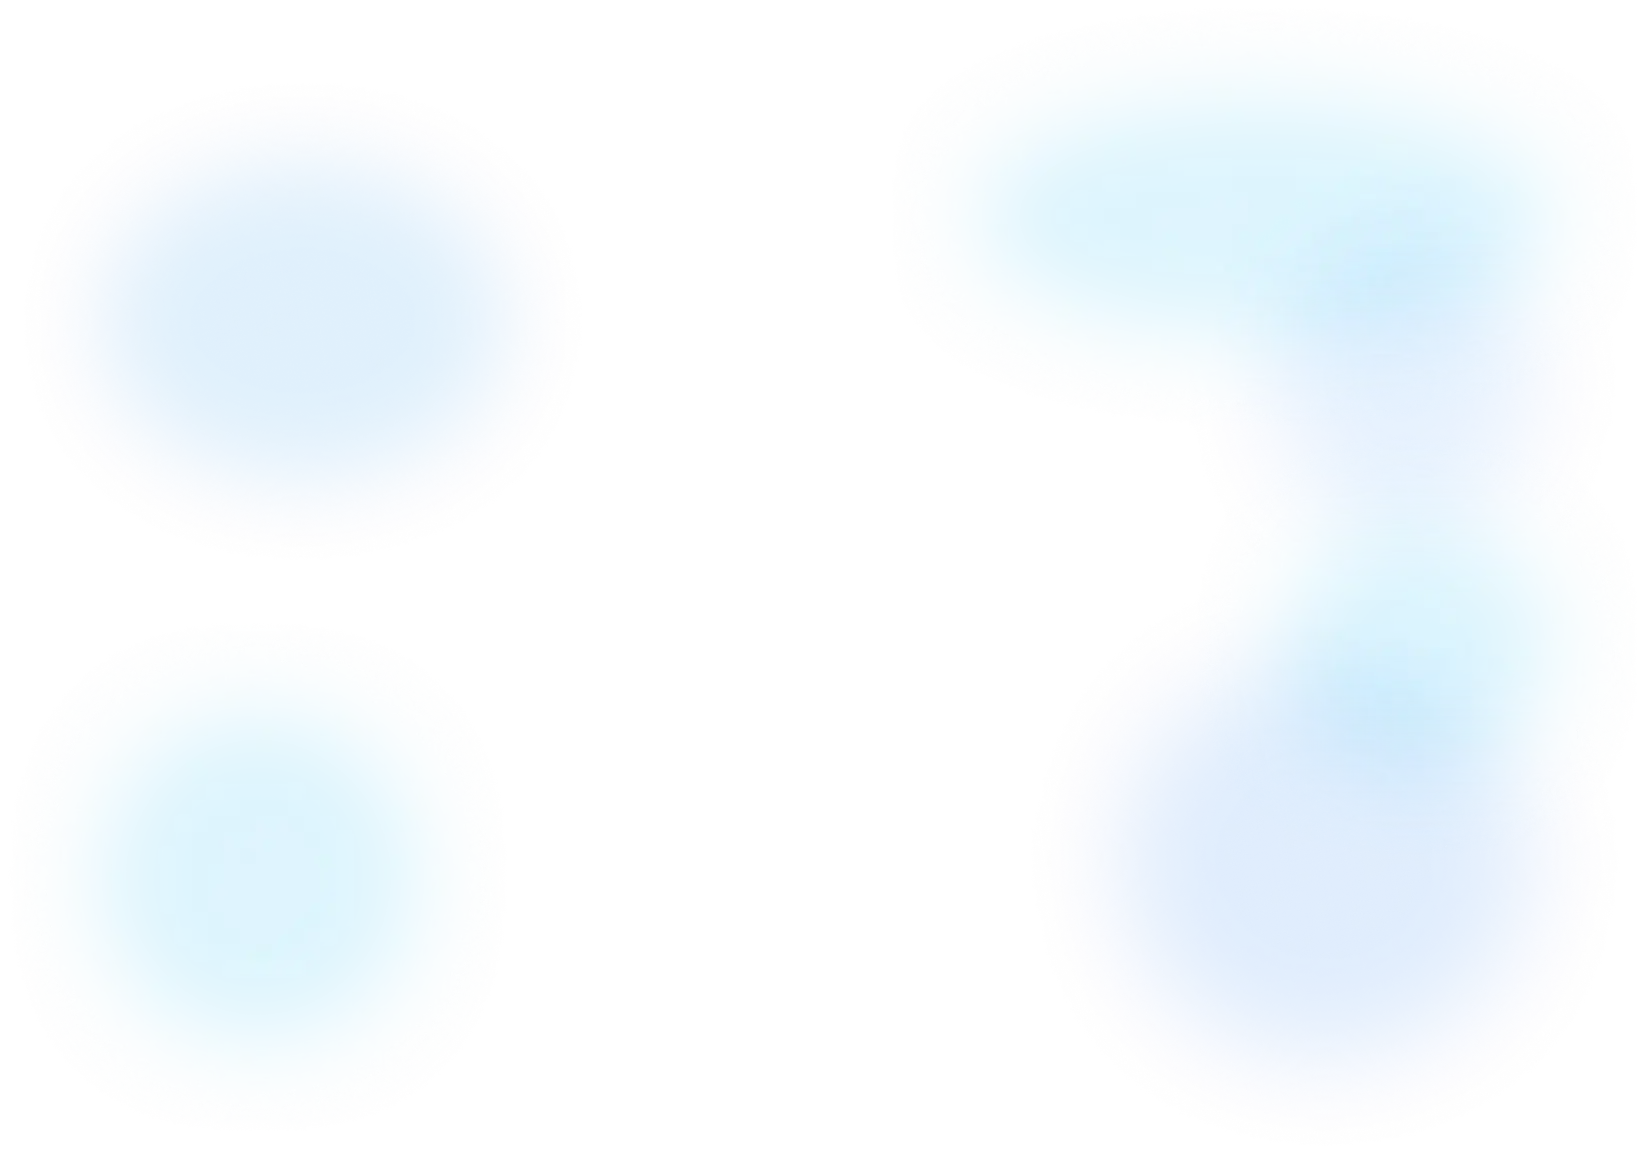
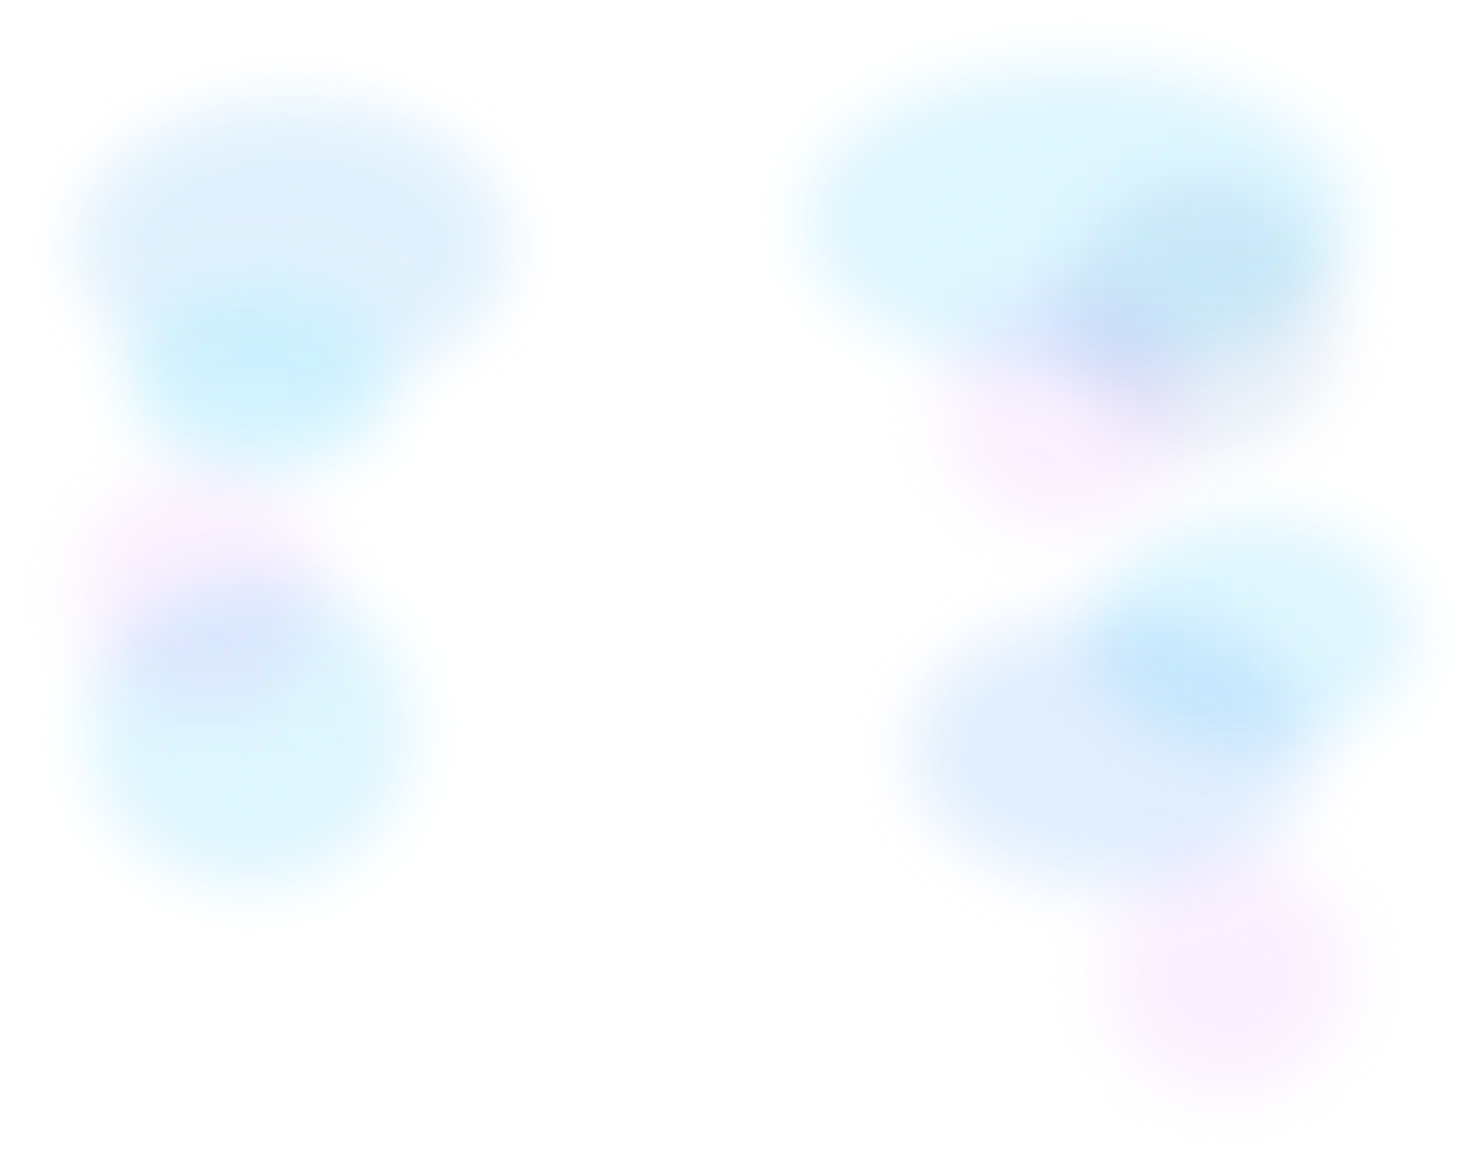
ポートフォリオ更新

diff --git a/js/meshGradient.js b/js/meshGradient.js
@@ -1,0 +1,132 @@
+// js/meshGradient.js
+// メッシュグラデーション共通関数
+
+function hexToRgb(h) {
+  return [parseInt(h.slice(1,3),16), parseInt(h.slice(3,5),16), parseInt(h.slice(5,7),16)];
+}
+
+function initMeshHero(config) {
+  const {
+    wrapperId = 'heroWrap',
+    bgCanvasId = 'bgCanvas',
+    shimCanvasId = 'shimCanvas',
+    orbsLayerId = 'orbsLayer',
+    colors,
+    speed = { mesh: 0.7, shim: 2.2, orb: 2.8 },
+    shimmerOpacity = 0.31,
+  } = config;
+
+  const wrap   = document.getElementById(wrapperId);
+  const bgCv   = document.getElementById(bgCanvasId);
+  const bgCtx  = bgCv.getContext('2d');
+  const shCv   = document.getElementById(shimCanvasId);
+  const shCtx  = shCv.getContext('2d');
+  const orbsEl = document.getElementById(orbsLayerId);
+
+  // カラーポイント生成
+  const pts = colors.points.map(c => ({
+    c,
+    x: Math.random(), y: Math.random(),
+    vx: (Math.random()-.5)*.003,
+    vy: (Math.random()-.5)*.003,
+  }));
+
+  // orbs生成
+  const orbs = colors.orbs.map(color => {
+    const el = document.createElement('div');
+    el.className = 'orb';
+    const size = 180 + Math.random() * 160;
+    el.style.cssText = `width:${size}px;height:${size}px;background:${color};position:absolute;border-radius:50%;filter:blur(60px);mix-blend-mode:screen;`;
+    el.style.left = (Math.random() * 100) + '%';
+    el.style.top  = (Math.random() * 100) + '%';
+    orbsEl.appendChild(el);
+    return { el, x: Math.random(), y: Math.random(), vx:(Math.random()-.5)*0.0045, vy:(Math.random()-.5)*0.0045 };
+  });
+
+  function resize() {
+    const dpr = devicePixelRatio;
+    bgCv.width = window.innerWidth * dpr;  bgCv.height = window.innerHeight * dpr;
+    shCv.width = window.innerWidth * dpr;  shCv.height = window.innerHeight * dpr;
+  }
+
+  function drawMesh() {
+    const W = bgCv.width / devicePixelRatio;
+    const H = bgCv.height / devicePixelRatio;
+    const sw = Math.ceil(W / 3), sh = Math.ceil(H / 3);
+    const id = bgCtx.createImageData(sw, sh);
+    const d = id.data;
+    for (let py = 0; py < sh; py++) {
+      for (let px = 0; px < sw; px++) {
+        const nx = px / sw, ny = py / sh;
+        let tr=0, tg=0, tb=0, tw=0;
+        for (const p of pts) {
+          const dx = nx - p.x, dy = ny - p.y;
+          const w2 = 1 / (dx*dx + dy*dy + 0.016);
+          const [r,g,b] = hexToRgb(p.c);
+          tr+=r*w2; tg+=g*w2; tb+=b*w2; tw+=w2;
+        }
+        const idx = (py * sw + px) * 4;
+        d[idx]   = tr / tw;
+        d[idx+1] = tg / tw;
+        d[idx+2] = tb / tw;
+        d[idx+3] = 255;
+      }
+    }
+    const tmp = document.createElement('canvas');
+    tmp.width = sw; tmp.height = sh;
+    tmp.getContext('2d').putImageData(id, 0, 0);
+    bgCtx.save();
+    bgCtx.scale(devicePixelRatio, devicePixelRatio);
+    bgCtx.imageSmoothingEnabled = true;
+    bgCtx.imageSmoothingQuality = 'high';
+    bgCtx.drawImage(tmp, 0, 0, W, H);
+    bgCtx.restore();
+  }
+
+  let shimT = 0;
+  function drawShimmer() {
+    const W = shCv.width / devicePixelRatio;
+    const H = shCv.height / devicePixelRatio;
+    shCtx.save();
+    shCtx.scale(devicePixelRatio, devicePixelRatio);
+    shCtx.clearRect(0, 0, W, H);
+    for (let i = 0; i < 5; i++) {
+      const x = W * (0.08 + i * 0.2 + Math.sin(shimT * 0.55 + i) * 0.16);
+      const y = H * (0.15 + Math.cos(shimT * 0.42 + i * 1.2) * 0.36);
+      const r = 52 + Math.sin(shimT + i) * 18;
+      const g = shCtx.createRadialGradient(x, y, 0, x, y, r * 4.2);
+      g.addColorStop(0,   'rgba(255,255,255,0.62)');
+      g.addColorStop(0.3, 'rgba(255,255,255,0.20)');
+      g.addColorStop(1,   'rgba(255,255,255,0)');
+      shCtx.fillStyle = g;
+      shCtx.beginPath();
+      shCtx.ellipse(x, y, r * 2.5, r, shimT * 0.22 + i, 0, Math.PI * 2);
+      shCtx.fill();
+    }
+    shCtx.restore();
+    shCv.style.opacity = shimmerOpacity;
+  }
+
+  function animate() {
+    shimT += 0.006 * speed.shim;
+    for (const p of pts) {
+      p.x += p.vx * speed.mesh; p.y += p.vy * speed.mesh;
+      if (p.x < 0 || p.x > 1) p.vx *= -1;
+      if (p.y < 0 || p.y > 1) p.vy *= -1;
+    }
+    for (const o of orbs) {
+      o.x += o.vx * speed.orb; o.y += o.vy * speed.orb;
+      if (o.x < -0.1 || o.x > 1.1) o.vx *= -1;
+      if (o.y < -0.1 || o.y > 1.1) o.vy *= -1;
+      o.el.style.left = (o.x * 100) + '%';
+      o.el.style.top  = (o.y * 100) + '%';
+    }
+    drawMesh();
+    drawShimmer();
+    requestAnimationFrame(animate);
+  }
+
+  resize();
+  animate();
+  window.addEventListener('resize', resize);
+}

diff --git a/js/memberColors.js b/js/memberColors.js
@@ -1,0 +1,102 @@
+// js/memberColors.js
+// 全メンバーの色設定
+
+const COLORS = {
+
+    // チーム — 青 × エメラルド
+    team: {
+        points: [
+            '#d6edf8', '#acddcd', '#9acbec', '#7ab8e8',
+            '#5ba3d4', '#3d88cc', '#aacdf2', '#c8e4f5',
+            '#a0dcc8', '#7dceb3',
+        ],
+        orbs: [
+            'rgba(140,200,240,0.52)',
+            'rgba(90,170,220,0.45)',
+            'rgba(190,225,248,0.55)',
+            'rgba(136,208,184,0.20)',
+        ],
+        bg: '#bddaf2',
+    },
+
+    // コウ — グリーンメイン × 青
+    kou: {
+        points: [
+            '#a8ddc0', '#88ccaa', '#68bc94', '#48ac7e',
+            '#28a068', '#559966', '#b8e8cc', '#cceedd',
+            '#7ab8e8', '#5ba3d4',  // ← 青2点
+        ],
+        orbs: [
+            'rgba(120,210,160,0.52)',
+            'rgba(72,172,126,0.45)',
+            'rgba(184,232,204,0.55)',
+            'rgba(90,163,212,0.22)',  // ← 青のorb
+        ],
+        bg: '#a0d8b8',
+    },
+
+    // マイ — ピンク × 青
+    mai: {
+        points: [
+            '#fde8dc', '#c8d4f3', '#fbc4a8', '#f9b090',
+            '#f7c5c0', '#f9d4cc', '#fde0d8', '#fce8e0',
+            '#b8c8f0', '#90aee8',
+        ],
+        orbs: [
+            'rgba(251,182,144,0.45)',
+            'rgba(249,176,160,0.42)',
+            'rgba(253,232,220,0.55)',
+            'rgba(144,174,232,0.25)',
+        ],
+        bg: '#fde8dc',
+    },
+
+    // さくら — オレンジ × ピンク
+    sakura: {
+        points: [
+            '#fde0c0', '#fdd0a0', '#fcc088', '#fba878',
+            '#f9c0b8', '#f8b0a8', '#fdd8c8', '#fce8d8',
+            '#f9a0b0', '#f890a0',
+        ],
+        orbs: [
+            'rgba(252,180,120,0.48)',
+            'rgba(250,160,140,0.44)',
+            'rgba(253,210,180,0.52)',
+            'rgba(249,160,176,0.28)',
+        ],
+        bg: '#fdd5b0',
+    },
+
+    // あや — 紫 × 水色
+    aya: {
+        points: [
+            '#cce8f5', '#c8b8e8', '#88c8e8', '#66b8e0',
+            '#44a8d8', '#2298d0', '#aad0e8', '#c8e0f0',
+            '#c8b8e8', '#ae98e0',  // ← ラベンダーに変更
+        ],
+        orbs: [
+            'rgba(136,200,232,0.52)',
+            'rgba(68,168,216,0.45)',
+            'rgba(200,224,240,0.55)',
+            'rgba(190,170,228,0.22)',  // ← ラベンダーのorbに変更
+        ],
+        bg: '#bce0f2',
+    },
+
+    // まゆみ — 白 × オレンジ（半々）
+    mayumi: {
+        points: [
+            '#ffd090', '#ffbe70', '#f7b366', '#ff9a30',
+            '#ffcc80', '#ffd8a0', '#ffe4b8', '#ffecd0',
+            '#fff0a0', '#ffe880',  // ← 黄色2点
+        ],
+        orbs: [
+            'rgba(255,200,120,0.52)',
+            'rgba(255,180,80,0.45)',
+            'rgba(255,220,160,0.55)',
+            'rgba(255,240,120,0.28)',  // ← 黄色のorb
+        ],
+        bg: '#ffc870',
+    },
+
+};

diff --git a/css/reasons.css b/css/reasons.css
@@ -1,0 +1,106 @@
+.reasons {
+  padding: 12rem 0;
+}
+@media (max-width: 767px) {
+  .reasons {
+    padding: 6rem 0;
+  }
+}
+.reasons__label {
+  font-size: 1.4rem;
+  color: #004568;
+  letter-spacing: 0.1em;
+  text-indent: 0.5em;
+}
+@media (max-width: 767px) {
+  .reasons__label {
+    font-size: 1.2rem;
+  }
+}
+.reasons__title {
+  font-size: 3rem;
+  padding-bottom: 1.5rem;
+  border-bottom: 1px solid #656565;
+  font-family: "Shippori Mincho", serif;
+  font-weight: 500;
+}
+@media (max-width: 767px) {
+  .reasons__title {
+    font-size: 2rem;
+  }
+}
+.reasons__intro {
+  margin-top: 4rem;
+  font-size: 1.4rem;
+  color: #1A1A1A;
+}
+.reasons__cards {
+  display: grid;
+  grid-template-columns: repeat(2, 1fr);
+  gap: 2.4rem;
+  margin-top: 4rem;
+}
+@media (max-width: 767px) {
+  .reasons__cards {
+    grid-template-columns: 1fr;
+  }
+}
+.reasons__card {
+  background: #fff;
+  padding: 3.2rem;
+  box-shadow: 0 2px 16px rgba(0, 0, 0, 0.05);
+  display: flex;
+  flex-direction: column;
+  gap: 1.6rem;
+  transition: transform 0.3s ease;
+}
+.reasons__card:hover {
+  transform: translateY(-3px);
+}
+.reasons__card-header {
+  display: flex;
+  align-items: center;
+  gap: 1.6rem;
+}
+.reasons__num {
+  font-size: 3.2rem;
+  font-family: "Outfit", sans-serif;
+  font-weight: 600;
+  color: #7AAEC8;
+  line-height: 1;
+}
+.reasons__name {
+  font-size: 1.8rem;
+  font-weight: 500;
+  color: #1A1A1A;
+}
+@media (max-width: 767px) {
+  .reasons__name {
+    font-size: 1.6rem;
+  }
+}
+.reasons__sub {
+  font-size: 1.3rem;
+  font-weight: 500;
+  color: #7AAEC8;
+  text-align: center;
+}
+.reasons__img {
+  width: 100%;
+  aspect-ratio: 16/7;
+  display: flex;
+  align-items: center;
+  justify-content: center;
+  overflow: hidden;
+}
+.reasons__img img {
+  width: 100%;
+  height: 100%;
+  -o-object-fit: contain;
+     object-fit: contain;
+}
+.reasons__desc {
+  font-size: 1.4rem;
+  line-height: 1.8;
+  color: #555;
+}

diff --git a/index.html b/index.html
@@ -70,7 +70,8 @@
   <main>
     <!-- fvの外、上に置く -->
     <div class="fv-blob">
-      <img src="img/hero/fv_bgimg.webp" alt="" loading="eager" fetchpriority="high">
+      <img src="img/hero/fv_bgimg.webp" srcset="img/hero/fv_bgimg_sp.webp 750w, img/hero/fv_bgimg.webp 1600w"
+        sizes="100vw" alt="" loading="eager" fetchpriority="high">
     </div>
 
     <!-- FV -->

diff --git a/scss/_members.scss b/scss/_members.scss
@@ -1,0 +1,2 @@
+@use "mixins" as m;
+@use "variables" as v;
